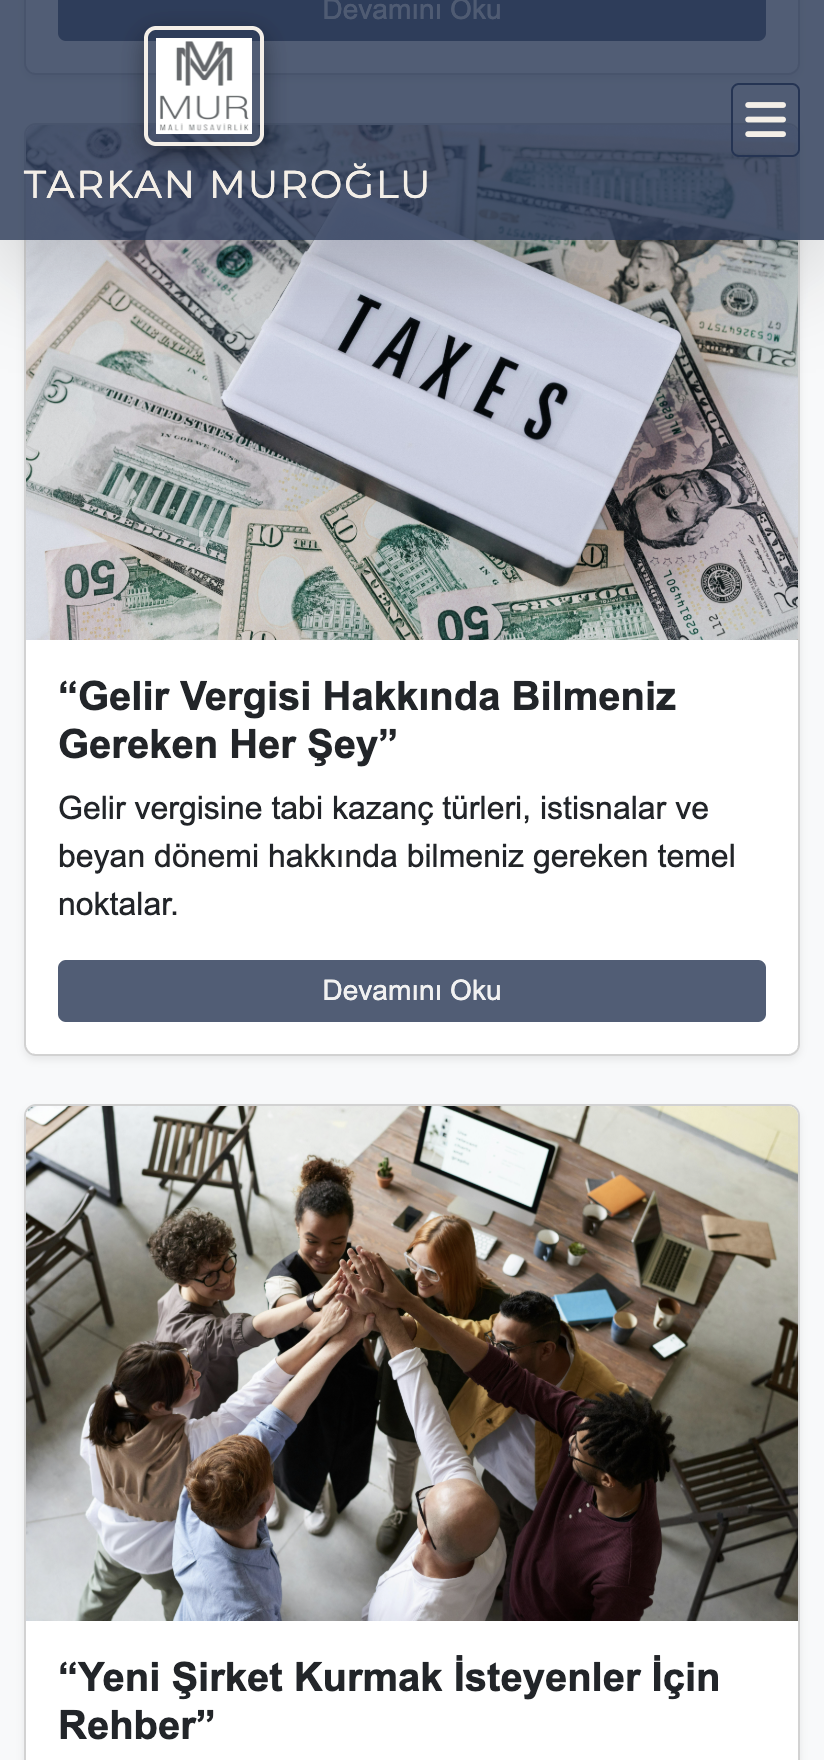
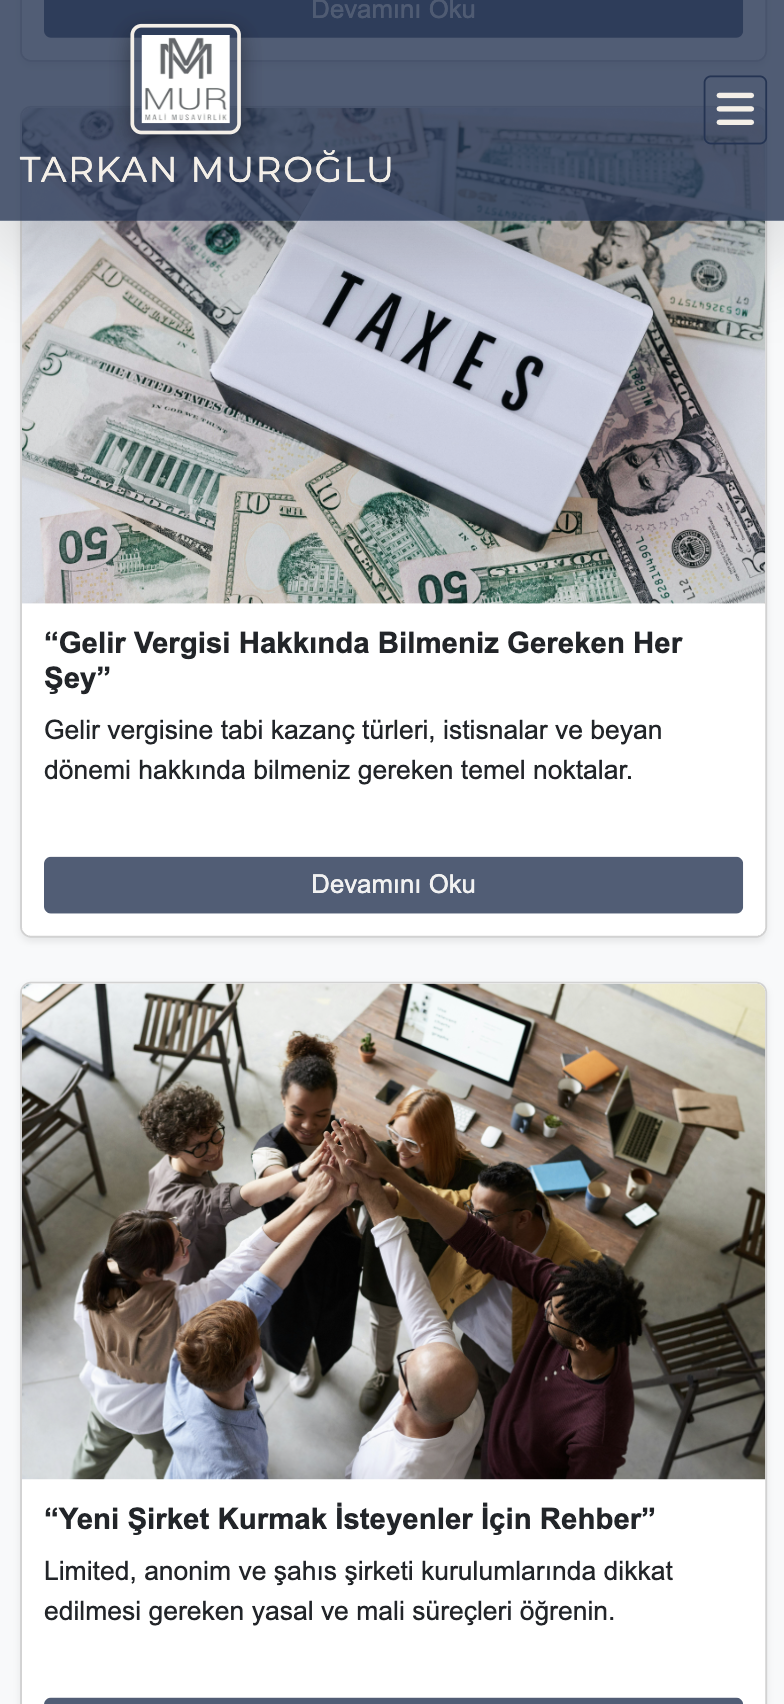
update

diff --git a/css/site.css b/css/site.css
@@ -173,12 +173,6 @@ body {
   background-color: rgba(255, 255, 255, 0.7);
 }
 
-@media (max-width: 768px) {
-  .card-box {
-    margin-bottom: 20px;
-  }
-}
-
 .services-box i {
   color: #213555;
 }
@@ -307,9 +301,62 @@ body {
 }
 
 /* =====================================
-   Responsive Footer
+   Responsive
   ===================================== */
 @media (max-width: 768px) {
+  .footer-content {
+    flex-direction: column;
+    gap: 25px;
+  }
+
+  .footer-section {
+    min-width: 100%;
+  }
+}
+
+@media (max-width: 768px) {
+  .card-title {
+    font-size: 1rem;
+  }
+
+  .card-text {
+    font-size: 0.9rem;
+  }
+
+  .card-body {
+    padding: 12px;
+  }
+
+  .card {
+    margin-bottom: 20px;
+  }
+
+  .card-box {
+    padding: 12px;
+    margin-bottom: 16px; 
+  }
+
+  .card-box i {
+    font-size: 1.4rem;
+    margin-bottom: 10px;
+  }
+
+  .card-box h5 {
+    font-size: 1rem;
+    margin-bottom: 8px;
+  }
+
+  .card-box p {
+    font-size: 0.9rem;
+    line-height: 1.4;
+  }
+
+  .special-heading {
+    font-size: 2rem;
+    padding: 12px;
+    text-align: center;
+  }
+
   .footer-content {
     flex-direction: column;
     gap: 25px;
